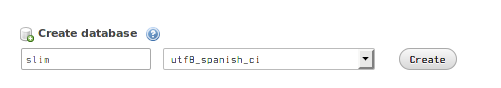
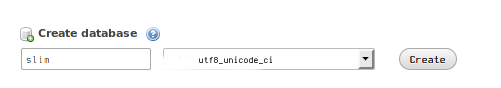
controladores

Changed region(s): [[0.3293, 0.6364, 0.5689, 0.7273], [0.3293, 0.7727, 0.5389, 0.7955]]

diff --git a/README.md b/README.md
@@ -18,7 +18,11 @@
 
 - PHP 5.5 o posterior
 - Un servidor web con reescritura de URLs 
-- Sistema Manejador de Bases de Datos MySQL/MariaDB<sup>[1](#foot1)</sup
+- Sistema Manejador de Bases de Datos MySQL/MariaDB<sup>[1](#foot1)</sup>
+- Eloquent (ORM)
+- Respect Validation
+- Twig (vistas)
+
 
 
 ### Instalación
@@ -124,7 +128,7 @@ Creamos una base de datos con el nombre `slim`
 
 ```
 $ mysql -u[nombre-de-usuario] -p
-> CREATE DATABASE slim;
+> CREATE DATABASE slim COLLATE = 'utf8_unicode_ci';
 > \u slim
 ```
 
@@ -184,77 +188,298 @@ agregamos después de  `logger` la configuración de nuestra base de datos
 		'host' => 'localhost',
 		'user' => '<tu nombre de usuario en mysql>',
 		'password' => '<tu contraseña>',
-		'dbname' => 'slim'
-		'port' => 10862 //el puerto donde esté activo mysql
+		'dbname' => 'slim'	
+		'charset'   => 'utf8',
+	    'collation' => 'utf8_unicode_ci',
+        'prefix'    => '',
 		],
 		
 ```
 
 ### Modelo
 
-Ahora hay que crear el _Modelo_ para la aplicación. Aunque Slim no sigue el patrón de diseño MVC (Modelo-Vista-Controlador) de un modo convencional, nos conviene tener un directorio exclusivo para cada componente, así que creamos un directorio para el modelo dentro de `src/`con nuestro explorador de archivos o con el comando `mkdir model` desde el directorio `src`.
+Ahora hay que crear el _Modelo_ para la aplicación. Aunque Slim no sigue el patrón de diseño MVC (Modelo-Vista-Controlador) de un modo convencional, nos conviene tener un directorio exclusivo para cada componente, así que crearemos un directorio para el modelo dentro de `src/`con nuestro explorador de archivos o con el comando `mkdir models` desde el directorio `src`.
 
-Una vez estando en el directorio `model` creamos un archivo `db.php` para conectarnos a la base de datos usando la extensión PDO<sup>[3](#foot3)</sup> de PHP.
+Como sabemos, Slim no cuenta con una herramienta para el Mapeo Objeto-Relacional por defecto. Sin embargo, nos permite agregar una de otro framework en PHP, por lo que usaremos _Eloquent_<sup>[3](#foot3)</sup> de Laravel.
+
+Para agregar _Eloquent_ a nuestro CRUD primero debemos pedirle a composer que lo instale.
+
+```sh
+	$ composer require illuminate/database "~5.1"
+```
+
+Luego agregamos _Eloquent_ a las dependencias de la aplicación. Abrimos el archivo `dependencies.php` que está en el directorio `src`y le agregamos 
 
 ```php
+$container['db'] = function ($container) {
+    $capsule = new \Illuminate\Database\Capsule\Manager;
+    $capsule->addConnection($container['settings']['db']);
 
-<?php
+    $capsule->setAsGlobal();
+    $capsule->bootEloquent();
 
-/**
-* función para conectar con la base de datos
-* @param type $db - la configuración de la base de datos dada para Slim
-*/
-
-function conectaBD($db){
-	$dbh = null; //auxiliar para la conexión
-	try{
-		//crea una cadena con la información dada en el archivo settings.php
-		$conn_str = "mysql:host={$db['host']};port={$db['port']};dbname={$db['dbname']}";
-		//crea instancia de PDO con la configuración para la base de datos
-        $dbh = new PDO($conn_str, $db['user'], $db['password']);
-		return $dbh;
-    } catch (PDOException $e) {
-        die("No se pudo conectar a la base de datos ".$e);
-    }
-}
-
-	}
-}
-
+    return $capsule;
+};
 ```
+
+Creamos la clase _Usuario_ dentro del directorio models.
+
+ ```php
+ <?php
+namespace Models;
+
+//importa Eloquent para usarlo en el modelo
+use Illuminate\Database\Eloquent\Model as Eloquent;
+
+class Usuario extends Eloquent
+{
+    // Define la llave primaria de la tabla usuarios
+    protected $primaryKey = 'id';
+
+    // Define el nombre de la tabla 
+    protected $table = 'usuarios';
+}
+```
+
 
 ### Controlador
 
-Entonces podemos empezar a escribir las funciones del controlador para el CRUD en un archivo al que, preferiblemente, llamaremos `usuario.php`.
+También crearemos un directorio `controllers` dentro de `src`para los controladores de la aplicación. Una vez creado el directorio, crearemos dentro de él una clase de _controlador_ genérica para usarla como base del resto de los controladores.
 
+```php
+<?php
+
+namespace Controllers;
+
+use \Slim\Container;
+
+/**
+ * Clase de controlador genérico que sirve como base para la aplicación
+ */
+
+class Controller
+{
+
+    // la aplicación
+    protected $app;
+    
+    // el contenedor de inyección de dependencias de la aplicación
+    protected $container;
+
+    /**
+     * Constructor de la clase Controller
+     * @param \Slim\Container - DIC
+     */
+    public function __construct(Container $container)
+    {
+        $this->app = Slim\Slim::getInstance();
+        $this->container = $container;
+    }
+
+    
+    /**
+     * Toma la variable del método GET de una petición http
+     * @param type string $key - el parametro que se busca
+     */
+    public function httpGet($key)
+    {
+        // busca el parametro de la consulta en la consulta completa
+        if(isset($this->container->request->getQueryParams()[$key])) {
+            return $this->container->request->getQueryParams()[$key];
+        } else {
+            return null; // si no hay parametro regresa un objeto nulo
+        }
+    }
+
+    /**
+     * Toma la variable del método POST de una petición http
+     *  @param type string $key - el parametro que se busca
+     */
+    public function httpPost($key)
+    {
+        // busca el parametro en el cuerpo parseado de la petición
+        if (isset($this->container->request->getParsedBody()[$key])) {
+            return $this->container->request->getParsedBody()[$key];
+        } else {
+            return null;
+        }
+    }
+
+    /**
+     * Convierte un objecto en una cadena en formato JSON
+     * @param object $data - el objeto a convertir
+     */
+    public static function($data)
+    {
+        // si el parametro que se recibe no es objeto, regresa null
+        if (!is_object($data)) {
+            return null;
+        } else {
+            /* codifica el objeto a JSON de manera legible
+               y con la constante de final de linea para manejar los saltos de linea en multiplataforma*/
+            return json_encode($data, JSON_PRETTY_PRINT) . PHP_EOL;
+        }
+    }
+	
+   /**
+     * Crea una cadena de error en formato de JSON
+     * @param type string $code - código del error
+     * @param type string $path - ruta del error
+     * @param type string $status - estado del error
+     * @param type string $extra - información adicional
+     * @return string - el error en formato JSON
+     */
+    public static function error($code, $path, $status, $extra = '')
+    {
+        $error = new \StdClass;
+        
+        $error->error = [
+            'code' => $code,
+            'path' => $path,
+            'status' => $status
+        ];
+        
+        if ($extra) {
+            $error->error['extra'] = $extra;
+        }
+        return self::encode($error);
+    }
+			
+    /**
+     * Evalua una lista de validaciones
+     * @param $valid - lista de validaciones
+     */
+    public static function valida($valid)
+    {
+        if (is_array($valid){
+            foreach($valid as $v){
+                if ($v == false){
+                    return false; // regresa false si una validación es falsa
+                } 
+            } 
+            return true;
+        } else { return false; } // si no es un arreglo
+    }
+}
+```
+
+Como nuestros controladores harán validaciones, instalamos la herramienta para validaciones Respect Validation mediante composer.
+
+```
+	$ composer require respect/validation
+```
+
+Ahora creamos el controlador para el usuario, también el directorio `controllers`.
+
+```php
+<?php
+
+use Models; // para usar el modelo de usuario
+use Respect\Validation\Validator as valida; // para usar el validador de Respect
+
+class Usuario extends Controller
+{
+
+    /**
+     * Obtiene los atributos para el método http POST 
+     * para crear/actualizar un usuario
+     *
+     */
+    public function getAtr()
+    {
+        $atr = [
+            'id' => $this->httpPost('id'),
+            'nombre' => $this->httpPost('nombre'),
+            'correo' => $this->httpPost('correo'),
+            'clave_acceso' => $this->httpPost('clave_acceso')
+        ];
+        return $atr;
+    }
+
+    /**
+     * Hace las validaciones para un POST
+     * @param $atr - los atributos a evaluar
+     */
+    public function validaPOST($atr)
+    {
+        $valid = [
+            // verifica que la id sea un entero
+            valida::intVal()->validate($atr['id']),
+            // verifica que se reciba una cadena de al menos longitud 2
+            valida::stringType()->length(2)->validate($atr['nombre']),
+            // verifica que se reciba un correo
+            valida::email()->validate($atr['correo']),
+            // verifica que no esté en blanco la contraseña
+            valida::notBlank()->validate($atr['clave_acceso'])
+        ];
+                                                 
+    }
+
+    /**
+     * Hace las validaciones para un método PATCH
+     * @param type array $atr - atributos a evaluar
+     */
+    public function validaPATCH($atr)
+    {
+        // es análogo al de POST
+        $valid = [
+            valida::intVal()->validate($atr['id']),
+            valida::stringType()->length(2)->validate($atr['nombre']),
+            valida::email()->validate($atr['correo']),
+            valida::notBlank()->validate($atr['clave_acceso'])
+        ];
+    }
+
+    /**
+     * Obtiene todos los usuarios de la tabla usuarios
+     */
+    public function todos()
+    {
+        $usuarios = Models\Usuario::get(); // usa la función get() de Eloquent
+
+        if($usuarios) {
+            echo self::encode($usuarios); // muestra los usuarios agregados
+        }    
+    }
+
+    /**
+     * Obtiene un usuario por su id
+     * @param type Slim\Http\Request $request - la solicitud http
+     * @param type Slim\Http\Response $response - la respuesta http
+     * @param type array $args - argumentos para la función
+     */
+    public function getID($request, $response, $args)
+    {
+        $id = $args['id'];
+
+        $valid = [v::intVal()->validate($id)]; //hace la validación de la id
+
+        // si la validación resulta cierta
+        if ($this->validate($valid) == true){
+            $usuario = Models\Usuario::find($id); // busca la id en la tabla
+            if ($usuario){
+                // si encuentra al usuario lo muestra
+                echo self::encode($usuario);
+            } else {
+                // si no hay un usuario regresa un error 404 (not found)
+                $status = 404; 
+                echo->$this->error('get#usuario{id}',
+                                   $request->getUri()->getPath(),
+                                   $status);
+                return $response->withStatus($status); 
+            }
+        } else {
+            // si la validación es falsa, regresa un error de bad request 
+            return $response->withStatus(400);
+        }
+    }   
+}
+
+```
 #### Crear
 Recordemos que la tabla usuario tiene como atributos una _id_, un _nombre_,un _correo_ y una _contraseña_. Como `id` es un atributo auto incrementable, solo necesitamos ingresar los otros 3 campos a la base de datos y lo haremos con esta función:
 
 ```php
-
-/**
-* función para crear/agregar usuarios a la base de datos
-* @param type $dbh - la instancia de PDO para realizar las consultas
-* @param type $usuario - el usuario a crear
-*/
-
-if(!function_exists('creaUsuario')){ //php marcaba errores si no hacia esta validación
-	function creaUsuario($dbh, $usuario){
-		try{
-			//crea una query para preparar la inserción
-			$q = "INSERT INTO usuarios SET nombre := nombre, correo := correo, clave_acceso := clave_acceso";
-			$stmt = $dbh->prepare($q); //prepara la inserción para ejecutarse
-			
-			//une cada parámetro con su valor 
-			$stmt->bindValue(':nombre', $usuario['nombre'], PDO::PARAM_STR);
-			$stmt->bindValue(':correo', $usuario['correo'], PDO::PARAM_STR);		
-			$stmt->bindValue(':clave_acceso', $usuario['clave_acceso'], PDO::PARAM_STR);	 
-			//ejecuta la inserción
-			$stmt->execute();
-			return $dbh->lastInsertId(); //Regresa la id de la última entidad guardada en la base de datos	
-		} catch (PDO Exception $e) {die($e);}			
-	}
-}
 
 ```
 
@@ -263,5 +488,5 @@ if(!function_exists('creaUsuario')){ //php marcaba errores si no hacia esta vali
 
 > <a name="foot1">1</a>: Mariadbcom. (2016). Mariadbcom. Retrieved 25 September, 2016, from https://mariadb.com/blog/why-should-you-migrate-mysql-mariadb. <br>
 > <a name="foot2">2</a>: How to install Composer programmatically?#. (n.d.). Retrieved September 25, 2016, from https://getcomposer.org/doc/faqs/how-to-install-composer-programmatically.md. <br>
-> <a name="foot3">3</a>: PHP: PDO - Manual. (2016). Retrieved from http://php.net/manual/en/book.pdo.php. <br>
+> <a name="foot3">3</a>:Eloquent: Getting Started - Laravel - The PHP Framework For Web Artisans. (n.d.). Retrieved September 29, 2016, from https://laravel.com/docs/5.1/eloquent <br>
 
